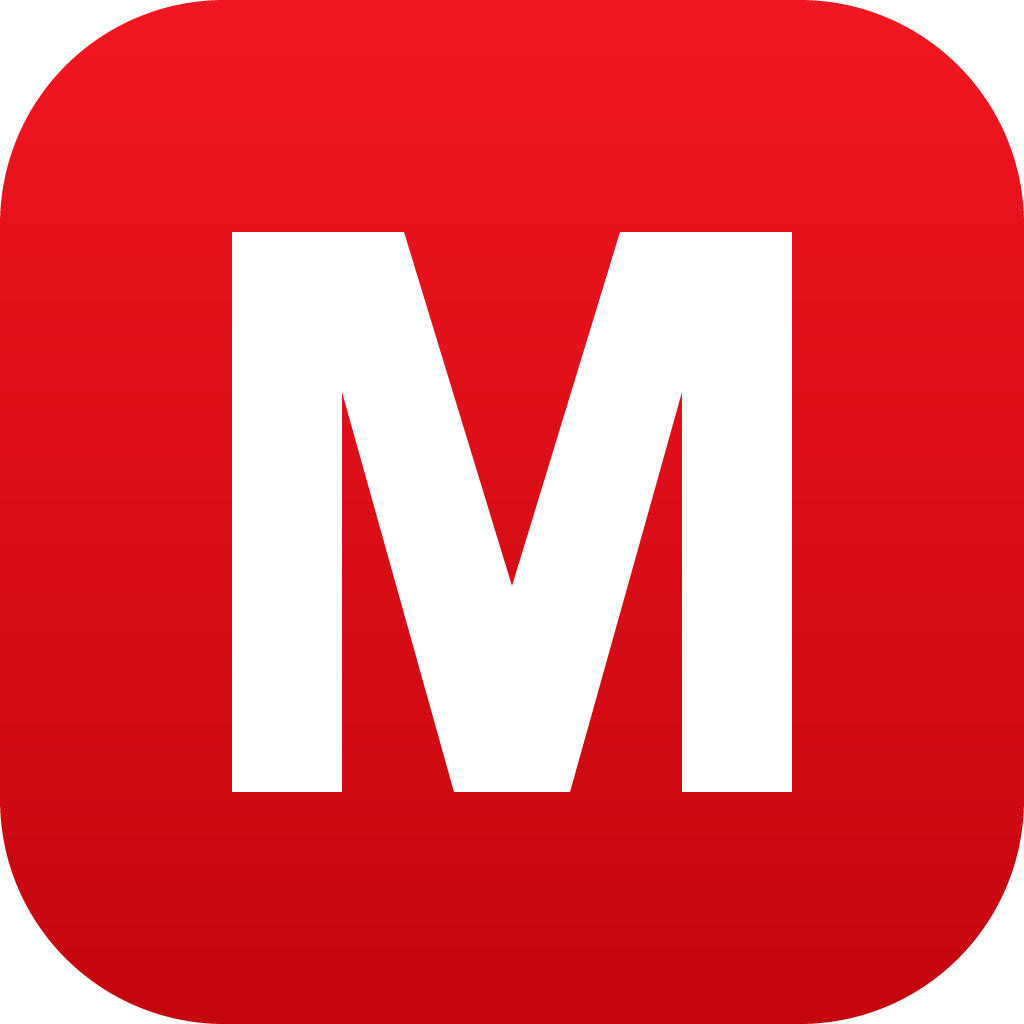
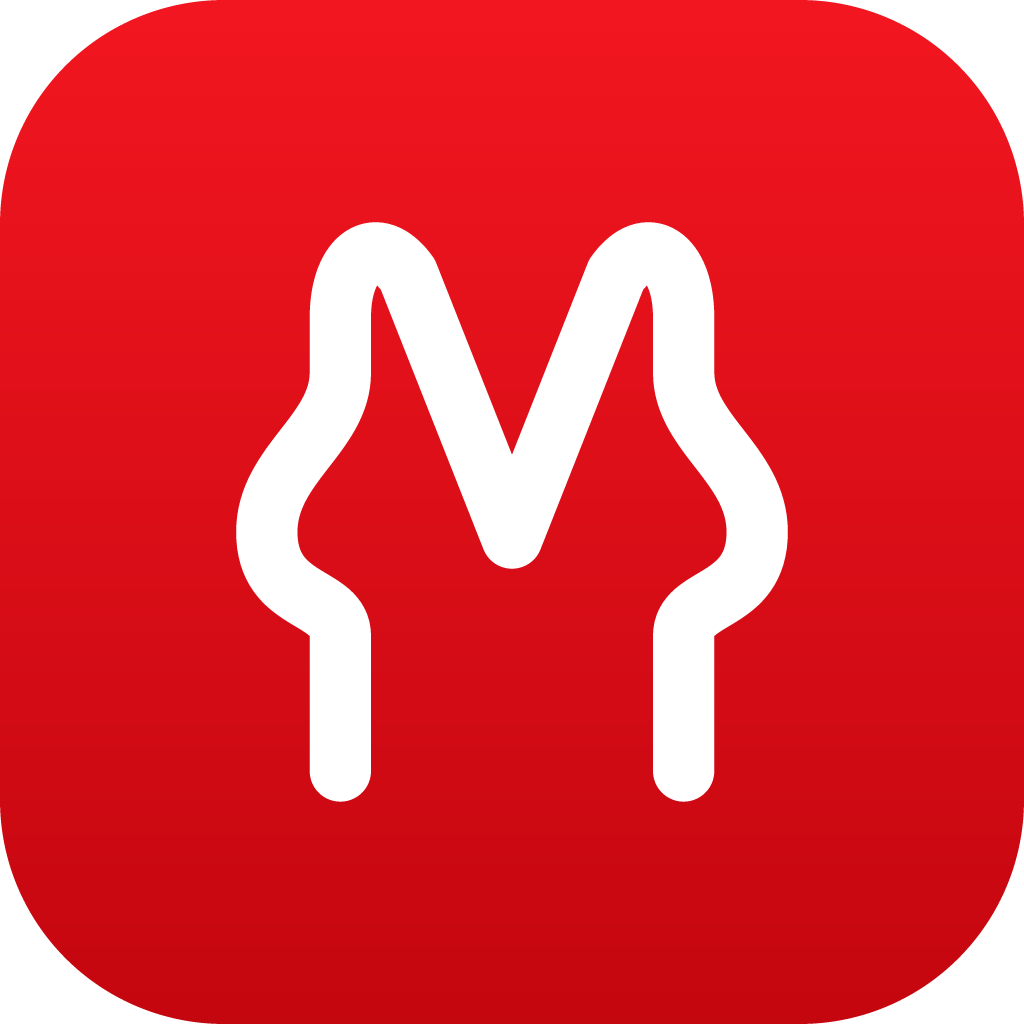
feat(成人版): 站名换成画好的 SVG 字标(F 款 M + 圆弧小写 ei.nu)、新图标,导航栏字标和刷短片按钮放大
- M:两侧竖线中段往外凸(胸部轮廓)、顶上圆肩;后面「ei.nu」用同一支笔画的圆弧小写(n 的圆拱 = M 的圆肩),
  M 只和大写字母一样高;全是 SVG 线条,不加载外部字体(Google Fonts 国内打不开)
- brand.html():MEI.NU → 整段字标;别的 M 开头站名 → 画的 M + 转义文字;其余 → 转义文字。
  登录框 / 加载页静态标记与 brand.html() 一字不差(测试比对),导航栏走 v-html="adBrandHtml"
- icon.png 换成同款 M(白线红底圆角方块)
- 导航栏字标和「刷短片」按钮跟屏宽 / 界面大小(--ui-scale)走,大屏不再缩成一小团;搜索框按导航栏高度让位
- 往下滚后缩进导航栏的搜索框不再盖住「刷短片」按钮(手机上也不压站名)
- adult.js?v=21、SW -adult20

Changed region(s): [[0.2188, 0.2188, 0.7812, 0.7812]]

diff --git a/public/adult/adult.js b/public/adult/adult.js
@@ -2167,6 +2167,31 @@
         } catch (e) { }
     })();
 
+    // ========== 站名字标 ==========
+    // MEI.NU 的字标是自己画的线条(SVG,不加载任何外部字体 —— Google Fonts 在国内打不开):
+    //   M:两侧竖线中段往外凸(胸部轮廓)、顶上两个角是圆肩;后面「ei.nu」用同一支笔画的圆弧小写(n 的圆拱 = M 的圆肩)。
+    //   M 只和大写字母一样高(不当大图标);M 和点是红的,其余字跟 currentColor(.dg-wm 默认白)。局部坐标:大写高 y 8..94、小写 x 高 y 40..94
+    const wordmark = (function () {
+        const SW = 8;
+        const M = 'M22 94 L22 72 C22 65 10 67 10 55 C10 44 22 39 22 29 L22 20 C22 10 28 6 33 13 L50 56 L67 13 C72 6 78 10 78 20 L78 29 C78 39 90 44 90 55 C90 67 78 65 78 72 L78 94';
+        const TAIL = [   // [x 偏移, 路径]:e i n u
+            [106, 'M6 68 H48 C48 51 38 40 26 40 C13 40 4 52 4 67 C4 83 14 94 27 94 C36 94 43 90 47 83'],
+            [163, 'M4 42 V94 M4 20 h0'],
+            [200, 'M4 40 V94 M4 64 C4 49 13 40 23 40 C34 40 42 49 42 62 V94'],
+            [258, 'M4 40 V70 C4 85 13 94 23 94 C34 94 42 85 42 72 M42 40 V94'],
+        ];
+        const DOT = 186;   // 点和 i、n 都隔开一点(导航栏那么小时不糊成一团)
+        const A = ' fill="none" stroke-linecap="round" stroke-linejoin="round"';
+        const mPath = '<path d="' + M + '" stroke="#e50914" stroke-width="' + SW + '"' + A + '/>';
+        // 整个「Mei.nu」
+        const full = '<svg class="dg-wm" viewBox="5 4 300 96" aria-hidden="true" focusable="false">' + mPath +
+            '<g stroke="currentColor" stroke-width="' + SW + '"' + A + '>' + TAIL.map((t) => '<path transform="translate(' + t[0] + ' 0)" d="' + t[1] + '"/>').join('') + '</g>' +
+            '<path d="M' + DOT + ' 94 h0" stroke="#e50914" stroke-width="' + (SW * 1.4) + '"' + A + '/></svg>';
+        // 只有 M(别的 M 开头站名:M 照画,后半截写字)
+        const mOnly = '<svg class="dg-wm dg-wm-solo" viewBox="5 4 91 96" aria-hidden="true" focusable="false">' + mPath + '</svg>';
+        return { full, mOnly, M, TAIL, DOT, SW };
+    })();
+
     // ========== 站名 ==========
     const brand = (function () {
         const KEY = 'dg_site_name';
@@ -2174,17 +2199,22 @@
         function name() { return clean(lsGet(KEY)) || DEFAULT_NAME; }
         // 图标就是一个「M」:站名以 M 开头时页面上的字只写后半截(图标 + EI.NU = MEI.NU),读屏照读全名;别的站名照写全名
         function tail(n) { const v = clean(n) || DEFAULT_NAME; return /^m./i.test(v) ? v.slice(1) : v; }
+        // 页面上的站名(HTML):MEI.NU → 整个画好的字标;别的 M 开头 → 画的 M + 后半截文字;其余 → 文字(旁边显示 icon.png)
+        function html(n) {
+            const v = clean(n) || DEFAULT_NAME;
+            if (v.toUpperCase() === 'MEI.NU') return wordmark.full;
+            const tl = tail(v);
+            return tl !== v ? wordmark.mOnly + '<span class="dg-wm-t">' + escHtml(tl) + '</span>' : escHtml(v);
+        }
         function apply(n) {
             const v = clean(n) || DEFAULT_NAME;
             lsSet(KEY, v);
             if (typeof root.document === 'undefined') return v;
             try { root.document.title = v; } catch (e) { }
             try {
-                const tl = tail(v);
+                const tl = tail(v), h = html(v);
                 root.document.querySelectorAll('[data-dg-brand]').forEach(el => {
-                    while (el.firstChild) el.removeChild(el.firstChild);
-                    if (tl !== v) { const m = root.document.createElement('span'); m.className = 'dg-wm-m'; m.setAttribute('aria-hidden', 'true'); m.textContent = v.charAt(0).toUpperCase(); el.appendChild(m); }
-                    el.appendChild(root.document.createTextNode(tl));
+                    if (el.innerHTML !== h) el.innerHTML = h;
                     el.setAttribute('aria-label', v);
                 });
                 if (root.document.documentElement && root.document.documentElement.classList) root.document.documentElement.classList.toggle('dg-logo-full', tl === v);
@@ -2227,7 +2257,7 @@
             return '<br>请前往 <a href="' + escHtml(v) + '" target="_blank" rel="noopener noreferrer" style="color:#ff6b6b;text-decoration:underline;">' + escHtml(host) + '</a> 续费';
         }
         function renewText() { const v = buyUrl(); return v ? '\n\n前往续费: ' + v : ''; }
-        return { KEY, name, apply, clean, tail, buyUrl, applyBuy, showBuy, renewHtml, renewText, safeUrl };
+        return { KEY, name, apply, clean, tail, html, buyUrl, applyBuy, showBuy, renewHtml, renewText, safeUrl };
     })();
 
     // ========== fetch 包装 ==========
@@ -2725,13 +2755,29 @@
         '.dg-meta-rel { white-space: nowrap; color: #bbb; }',
         '.browse-filters:empty { display: none; }',
         // ---- p4:刷短片入口 / 播放页相关推荐 / 女优索引与女优页头 / 扩展设置容器 ----
-        '.dg-nav-feed { display: inline-flex; align-items: center; gap: 6px; height: 34px; padding: 0 14px; border-radius: 17px; border: 1px solid rgba(255, 255, 255, 0.28); background: rgba(0, 0, 0, 0.35); color: #fff; font-size: 13px; cursor: pointer; white-space: nowrap; }',
-        '.dg-nav-feed:hover, .dg-nav-feed:focus { border-color: #fff; background: rgba(229, 9, 20, 0.3); outline: none; }',
-        '@media (max-width: 480px) { .dg-nav-feed span { display: none; } .dg-nav-feed { width: 36px; padding: 0; justify-content: center; } }',
-        // 站名:图标就是首字母 M,紧挨着后半截字(站名不是 M 开头时 html.dg-logo-full 恢复原来的间距)
+        // 导航栏的字标和「刷短片」按钮:大屏跟着屏宽长一点,也跟设置里的界面大小(--ui-scale)走
+        //   (变量放在根上:导航栏下面的搜索框按它让位,见 index.html .search-section 的 marginTop)
+        'html:root { --dg-nav-h: calc(clamp(40px, 2.3vw, 52px) * var(--ui-scale, 1)); }',
+        '@media (max-width: 480px) { html:root { --dg-nav-h: calc(40px * var(--ui-scale, 1)); } }',
+        '.dg-nav-feed { display: inline-flex; align-items: center; gap: calc(var(--dg-nav-h) * .18); height: var(--dg-nav-h); padding: 0 calc(var(--dg-nav-h) * .46); border-radius: calc(var(--dg-nav-h) / 2); border: 1px solid rgba(255, 255, 255, 0.3); background: rgba(0, 0, 0, 0.4); color: #fff; font-size: calc(var(--dg-nav-h) * .38); font-weight: 500; cursor: pointer; white-space: nowrap; backdrop-filter: blur(6px); -webkit-backdrop-filter: blur(6px); transition: background .15s, border-color .15s; }',
+        '.dg-nav-feed i { color: #ff4d55; font-size: 1.1em; }',
+        '.dg-nav-feed:hover, .dg-nav-feed:focus-visible { border-color: #fff; background: rgba(229, 9, 20, 0.35); outline: none; }',
+        '.dg-nav-feed:hover i, .dg-nav-feed:focus-visible i { color: #fff; }',
+        '@media (max-width: 480px) { .dg-nav-feed span { display: none; } .dg-nav-feed { width: var(--dg-nav-h); padding: 0; justify-content: center; font-size: calc(var(--dg-nav-h) * .42); } }',
+        // 往下滚后搜索框缩进导航栏右侧:和导航栏同高、同一条中线,并让出「刷短片」按钮(以前会整个盖住它)
+        'html .search-section { top: 15px; }',
+        'html .search-box-wrapper.compact { height: var(--dg-nav-h, 40px); }',
+        'html .search-box-wrapper.compact .search-input { height: 100%; }',
+        'body:has(.dg-nav-feed) .search-box-wrapper.compact { margin-right: calc(var(--dg-nav-h, 40px) * 2.66 + 14px); }',
+        '@media (max-width: 480px) { body:has(.dg-nav-feed) .search-box-wrapper.compact { margin-right: calc(var(--dg-nav-h, 40px) + 10px); max-width: calc(100% - var(--dg-nav-h, 40px) * 3.81 - 32px); } }',
+        // 站名:画好的字标(M 本身就是标志,旁边不再放 icon.png;站名不是 M 开头时 html.dg-logo-full 把图标放回来)
         'html:not(.dg-logo-full) .brand > img, html:not(.dg-logo-full) .loader-logo > img, html:not(.dg-logo-full) .password-logo-text > img { display: none !important; }',
-        '.dg-wm-m { display: inline-block; margin-right: .07em; padding: .1em .13em .06em; border-radius: .2em; background: #e50914; -webkit-background-clip: border-box; background-clip: border-box; color: #fff; -webkit-text-fill-color: #fff; line-height: .82; letter-spacing: 0; text-shadow: none; vertical-align: baseline; box-shadow: 0 2px 10px rgba(229, 9, 20, .35); }',
-        '.loader-logo [data-dg-brand], .password-logo-text [data-dg-brand] { color: #e50914; font-weight: 800; letter-spacing: 1px; }',
+        '.dg-wm { display: inline-block; height: 1em; width: auto; vertical-align: middle; overflow: visible; color: #fff; }',
+        '.dg-wm-solo { margin-right: .06em; }',
+        '.brand .dg-wm { height: calc(var(--dg-nav-h, 40px) * .9); filter: drop-shadow(0 2px 6px rgba(0, 0, 0, .55)); }',
+        '.loader-logo [data-dg-brand], .password-logo-text [data-dg-brand] { display: inline-flex; align-items: center; color: #e50914; font-weight: 800; letter-spacing: 1px; }',
+        '.loader-logo .dg-wm, .password-logo-text .dg-wm { height: 1.1em; }',
+        '[data-dg-brand], .brand > span { line-height: 1; }',
         '.dg-rails { margin-top: 18px; }',
         '.dg-rail { margin-top: 14px; }',
         '.dg-rail-t { display: flex; align-items: center; gap: 8px; color: #eee; font-size: 16px; font-weight: 600; margin: 0 0 8px; }',
@@ -3784,9 +3830,8 @@
                 if (!b || !b.open) return '';
                 return routeOf(this.adult.view, b.type, b.sel);
             },
-            // 导航栏站名:图标当首字母 M(见 brand.tail)
-            adBrandTail() { return brand.tail((this.adult && this.adult.siteName) || DEFAULT_NAME); },
-            adBrandM() { const n = (this.adult && this.adult.siteName) || DEFAULT_NAME; return brand.tail(n) !== n; },
+            // 导航栏站名:画好的字标(见 brand.html;站名经 clean + 转义,只有自己画的 SVG 是原样 HTML)
+            adBrandHtml() { return brand.html((this.adult && this.adult.siteName) || DEFAULT_NAME); },
             adBrowseTitle() {
                 void this.adult.labv;
                 const b = this.browse, s = (b && b.sel) || {};
@@ -4840,7 +4885,7 @@
         browseApiUrl, filterCount, nextTagState, normFacets, sortOpts, chipRow, activePills, routeOf, parseRoute, canonHash, isOurHash,
         cloudOf, normTagInfo, normActress, normActressList, normStudios, relDate, featurable, isBlockedTag, guessCols,
         components: { DgAdGrid, DgAdFilter, DgAdHead, DgAdRails, DgAdActresses },
-        ageGate, brand, auth, fetchWork, mixin, boot,
+        ageGate, brand, wordmark, auth, fetchWork, mixin, boot,
         // p4:扩展点 / 给 preview.js、feed.js、player-x.js、privacy.js 的桥
         hook, hooks: hooks.H, HOOK_NAMES, cardOf, wkTags, fetchWorkRaw, wrapPlayUrl, playUrl, proxyUrl, mainBusy, previewBusy, isTV,
         openWork: openWorkExt, incognito, privLocked, netBlock, netNow, cellOk, pvOn, CELL_KEY, PV_KEY,

diff --git a/public/index.html b/public/index.html
@@ -85,7 +85,7 @@
     -->
     <!-- [adult] 成人站前端(window.DgAdult):年龄确认门 / 站名 / 内容接口 401 补核验 / 目录首页与分类 / Vue mixin。
          必须同步加载、先于下面的 Vue 主脚本;改了要升 ?v= 和 sw.js 版本 -->
-    <script data-cfasync="false" src="adult/adult.js?v=16"></script>
+    <script data-cfasync="false" src="adult/adult.js?v=21"></script>
 
     <!-- PWA Setup -->
     <link rel="manifest" href="manifest.json">
@@ -4944,7 +4944,7 @@
     <!-- Initial Loading Screen (Buffer) -->
     <div id="app-loader" class="app-loader">
         <div class="loader-logo" style="display: flex; align-items: center; justify-content: center;"><img
-                src="icon.png" style="height: 42px; margin-right: 8px; border-radius: 10px;"><span data-dg-brand aria-label="MEI.NU"><span class="dg-wm-m" aria-hidden="true">M</span>EI.NU</span>   <!-- [adult] 站名(原:视界 MAX) -->
+                src="icon.png" style="height: 42px; margin-right: 8px; border-radius: 10px;"><span data-dg-brand aria-label="MEI.NU"><svg class="dg-wm" viewBox="5 4 300 96" aria-hidden="true" focusable="false"><path d="M22 94 L22 72 C22 65 10 67 10 55 C10 44 22 39 22 29 L22 20 C22 10 28 6 33 13 L50 56 L67 13 C72 6 78 10 78 20 L78 29 C78 39 90 44 90 55 C90 67 78 65 78 72 L78 94" stroke="#e50914" stroke-width="8" fill="none" stroke-linecap="round" stroke-linejoin="round"/><g stroke="currentColor" stroke-width="8" fill="none" stroke-linecap="round" stroke-linejoin="round"><path transform="translate(106 0)" d="M6 68 H48 C48 51 38 40 26 40 C13 40 4 52 4 67 C4 83 14 94 27 94 C36 94 43 90 47 83"/><path transform="translate(163 0)" d="M4 42 V94 M4 20 h0"/><path transform="translate(200 0)" d="M4 40 V94 M4 64 C4 49 13 40 23 40 C34 40 42 49 42 62 V94"/><path transform="translate(258 0)" d="M4 40 V70 C4 85 13 94 23 94 C34 94 42 85 42 72 M42 40 V94"/></g><path d="M186 94 h0" stroke="#e50914" stroke-width="11.2" fill="none" stroke-linecap="round" stroke-linejoin="round"/></svg></span>   <!-- [adult] 站名(原:视界 MAX) -->
         </div>
         <div class="loader-spinner"></div>
         <div id="loader-status" style="margin-top: 20px; color: #666; font-size: 13px; text-align: center;">正在初始化...
@@ -4959,7 +4959,7 @@
         <div class="password-container">
             <div class="password-logo">
                 <div class="password-logo-text" style="display: flex; align-items: center; justify-content: center;">
-                    <img src="icon.png" style="height: 32px; margin-right: 8px; border-radius: 8px;"><span data-dg-brand aria-label="MEI.NU"><span class="dg-wm-m" aria-hidden="true">M</span>EI.NU</span>   <!-- [adult] 站名(原:视界 MAX) -->
+                    <img src="icon.png" style="height: 32px; margin-right: 8px; border-radius: 8px;"><span data-dg-brand aria-label="MEI.NU"><svg class="dg-wm" viewBox="5 4 300 96" aria-hidden="true" focusable="false"><path d="M22 94 L22 72 C22 65 10 67 10 55 C10 44 22 39 22 29 L22 20 C22 10 28 6 33 13 L50 56 L67 13 C72 6 78 10 78 20 L78 29 C78 39 90 44 90 55 C90 67 78 65 78 72 L78 94" stroke="#e50914" stroke-width="8" fill="none" stroke-linecap="round" stroke-linejoin="round"/><g stroke="currentColor" stroke-width="8" fill="none" stroke-linecap="round" stroke-linejoin="round"><path transform="translate(106 0)" d="M6 68 H48 C48 51 38 40 26 40 C13 40 4 52 4 67 C4 83 14 94 27 94 C36 94 43 90 47 83"/><path transform="translate(163 0)" d="M4 42 V94 M4 20 h0"/><path transform="translate(200 0)" d="M4 40 V94 M4 64 C4 49 13 40 23 40 C34 40 42 49 42 62 V94"/><path transform="translate(258 0)" d="M4 40 V70 C4 85 13 94 23 94 C34 94 42 85 42 72 M42 40 V94"/></g><path d="M186 94 h0" stroke="#e50914" stroke-width="11.2" fill="none" stroke-linecap="round" stroke-linejoin="round"/></svg></span>   <!-- [adult] 站名(原:视界 MAX) -->
                 </div>
                 <div class="password-logo-subtitle"><i class="fas fa-shield-alt"></i> <span id="login-subtitle-text">请登录以继续</span></div>
             </div>
@@ -5064,7 +5064,7 @@
 
         <nav class="navbar-custom" v-show="!offHome">
             <div class="brand" @click="goHome" style="cursor: pointer; display: flex; align-items: center;"><img
-                    src="icon.png" style="height: 28px; margin-right: 6px; border-radius: 6px;"><span :aria-label="(adult && adult.siteName) || 'MEI.NU'"><span v-if="adBrandM" class="dg-wm-m" aria-hidden="true">M</span>{{ adBrandTail }}</span></div>   <!-- [adult] 站名(原:视界 MAX) -->
+                    src="icon.png" style="height: 28px; margin-right: 6px; border-radius: 6px;"><span :aria-label="(adult && adult.siteName) || 'MEI.NU'" v-html="adBrandHtml"></span></div>   <!-- [adult] 站名(原:视界 MAX) -->
             <button v-if="adultMode && adFeedOn" type="button" class="dg-nav-feed" @click="adOpenFeed()" title="刷短片" aria-label="刷短片"><i class="fas fa-mobile-screen" aria-hidden="true"></i><span>刷短片</span></button>   <!-- [adult] p4 刷短片入口(电视上没有) -->
         </nav>
 
@@ -5110,7 +5110,7 @@
 
         <!-- 2. Search -->
         <div class="search-section" @focusout="adultMode && adSugBlur($event)"
-            :style="{ marginTop: offHome ? (isTVMode ? '20px' : '60px') : (adultMode ? '72px' : '-35px'), position: offHome ? 'relative' : 'sticky' }">   <!-- [adult] 没有轮播:首页搜索框让出导航栏;焦点离开搜索区收起建议 -->
+            :style="{ marginTop: offHome ? (isTVMode ? '20px' : (adultMode ? 'calc(var(--dg-nav-h, 40px) + 26px)' : '60px')) : (adultMode ? 'calc(var(--dg-nav-h, 40px) + 42px)' : '-35px'), position: offHome ? 'relative' : 'sticky' }">   <!-- [adult] 没有轮播:首页搜索框让出导航栏(导航栏高度跟 --dg-nav-h 走);焦点离开搜索区收起建议 -->
             <div class="search-box-wrapper" :class="{ 'compact': !offHome && pastCompactThreshold }">
                 <i class="fas fa-search search-icon" @click="submitSearch(true)"></i>
                 <input type="text" v-model="keyword" @keyup.enter="submitSearch(true)" @input="debouncedSearch"

diff --git a/public/sw.js b/public/sw.js
@@ -62,12 +62,13 @@
 // [adult] -adult17:adult.js?v=14(红楼系 vfile.meituan.net 的 http 分片在 https 页面上改 https —— 刷短片开头约七成放不了的根因)、feed.js?v=5(进度条可拖、长按 2 倍速、双击 ±10 秒、按钮跟界面缩放变大、每次随机起点 + 换一批 + 无尽续刷、跳过这几天看过的、看过列表、片头贴片跳过、起播看门狗、放不了自动翻下一条)。
 // [adult] -adult18:adult.js?v=15(站名图标当首字母 M:页面上写「EI.NU」)、feed.js?v=6(刷短片外观:「推荐 | 竖屏」切换、右侧声音 / 完整版、标签小块、暂停大图标、出错卡片、电脑端快捷键提示)。
 // [adult] -adult19:adult.js?v=16(站名字母章:M 用和后面同一字体 / 字号 / 字重的文字,红底反白、同一基线,不再用图片当首字母)。
+// [adult] -adult20:adult.js?v=21(站名换成画好的 SVG 字标:M 两侧竖线中段外凸 + 圆肩,后面同一支笔画的圆弧小写「ei.nu」,不加载外部字体;导航栏字标和「刷短片」按钮放大并跟屏宽 / 界面大小走,往下滚后缩小的搜索框不再盖住「刷短片」)、新图标(icon.png 同款 M)。
 //      就对那个图床和 ≤2 个本会话加载成功过的别的图床各发一个 HEAD(no-cors、no-store、20 秒)直接问:图床通 = 文件坏,重试一次再藏;图床不通、别的通 = 藏并记一次失败;
 //      图床没回、别的通 = 30 秒后再问一轮;别的也都不通 = 网络问题,不藏(弱网慢的永远不藏);几个图床同时不通、通的不比它多 = 本机 DNS / 代理的问题,不藏。
 //      页面冻过 / 断网 / 切前后台时在路上的探测作废重来;视口上面的改动先压着不滚动;浏览与搜索网格底下「已隐藏 N 部 · 显示」,底栏「共 N 部」不算藏掉的)。
 //      SW:跨域的 HEAD / no-store 请求一律直通(探测必须真的走网络,不能被策略1 的缓存 / 占位图冒充)。
 const CACHE_VERSION = 'v43';
-const ADULT_REV = '-adult19';   // [adult] 成人站改了 SW 行为/预缓存就 +1(adult2…):缓存名跟着换 = 新 SW 重新预缓存、activate 清掉旧缓存
+const ADULT_REV = '-adult20';   // [adult] 成人站改了 SW 行为/预缓存就 +1(adult2…):缓存名跟着换 = 新 SW 重新预缓存、activate 清掉旧缓存
 const ADULT_SITE = true;   // [adult] 成人站分支:海报不缓存、内容接口不缓存(见上)
 const STATIC_CACHE = 'donggua-static-' + CACHE_VERSION + ADULT_REV;
 const IMAGE_CACHE = 'donggua-images-' + CACHE_VERSION + ADULT_REV;
@@ -92,7 +93,7 @@ const STATIC_URLS = [
     './libs/js/qrcode-generator.min.js?v=2.0.4',   // v39: 截帧分享的二维码库(按需加载;?v= 与 index.html 的 _loadQrLib 一致)
     './libs/js/seek-preview.js?v=1',   // v43: 进度条缩略图预览(defer;?v= 与 index.html 一致)
     './libs/js/DPlayer.min.js',
-    './adult/adult.js?v=16',   // [adult] v43-adult19:与 index.html 引用同一个 ?v=
+    './adult/adult.js?v=21',   // [adult] v43-adult20:与 index.html 引用同一个 ?v=
     './adult/player-x.js?v=4',   // [adult] -adult5:四个 p4 扩展模块(defer;预缓存走 SWR,弱网不拖住 DOMContentLoaded)。后台 admin.html/admin.js 不预缓存
     './adult/privacy.js?v=3',
     './adult/preview.js?v=4',
